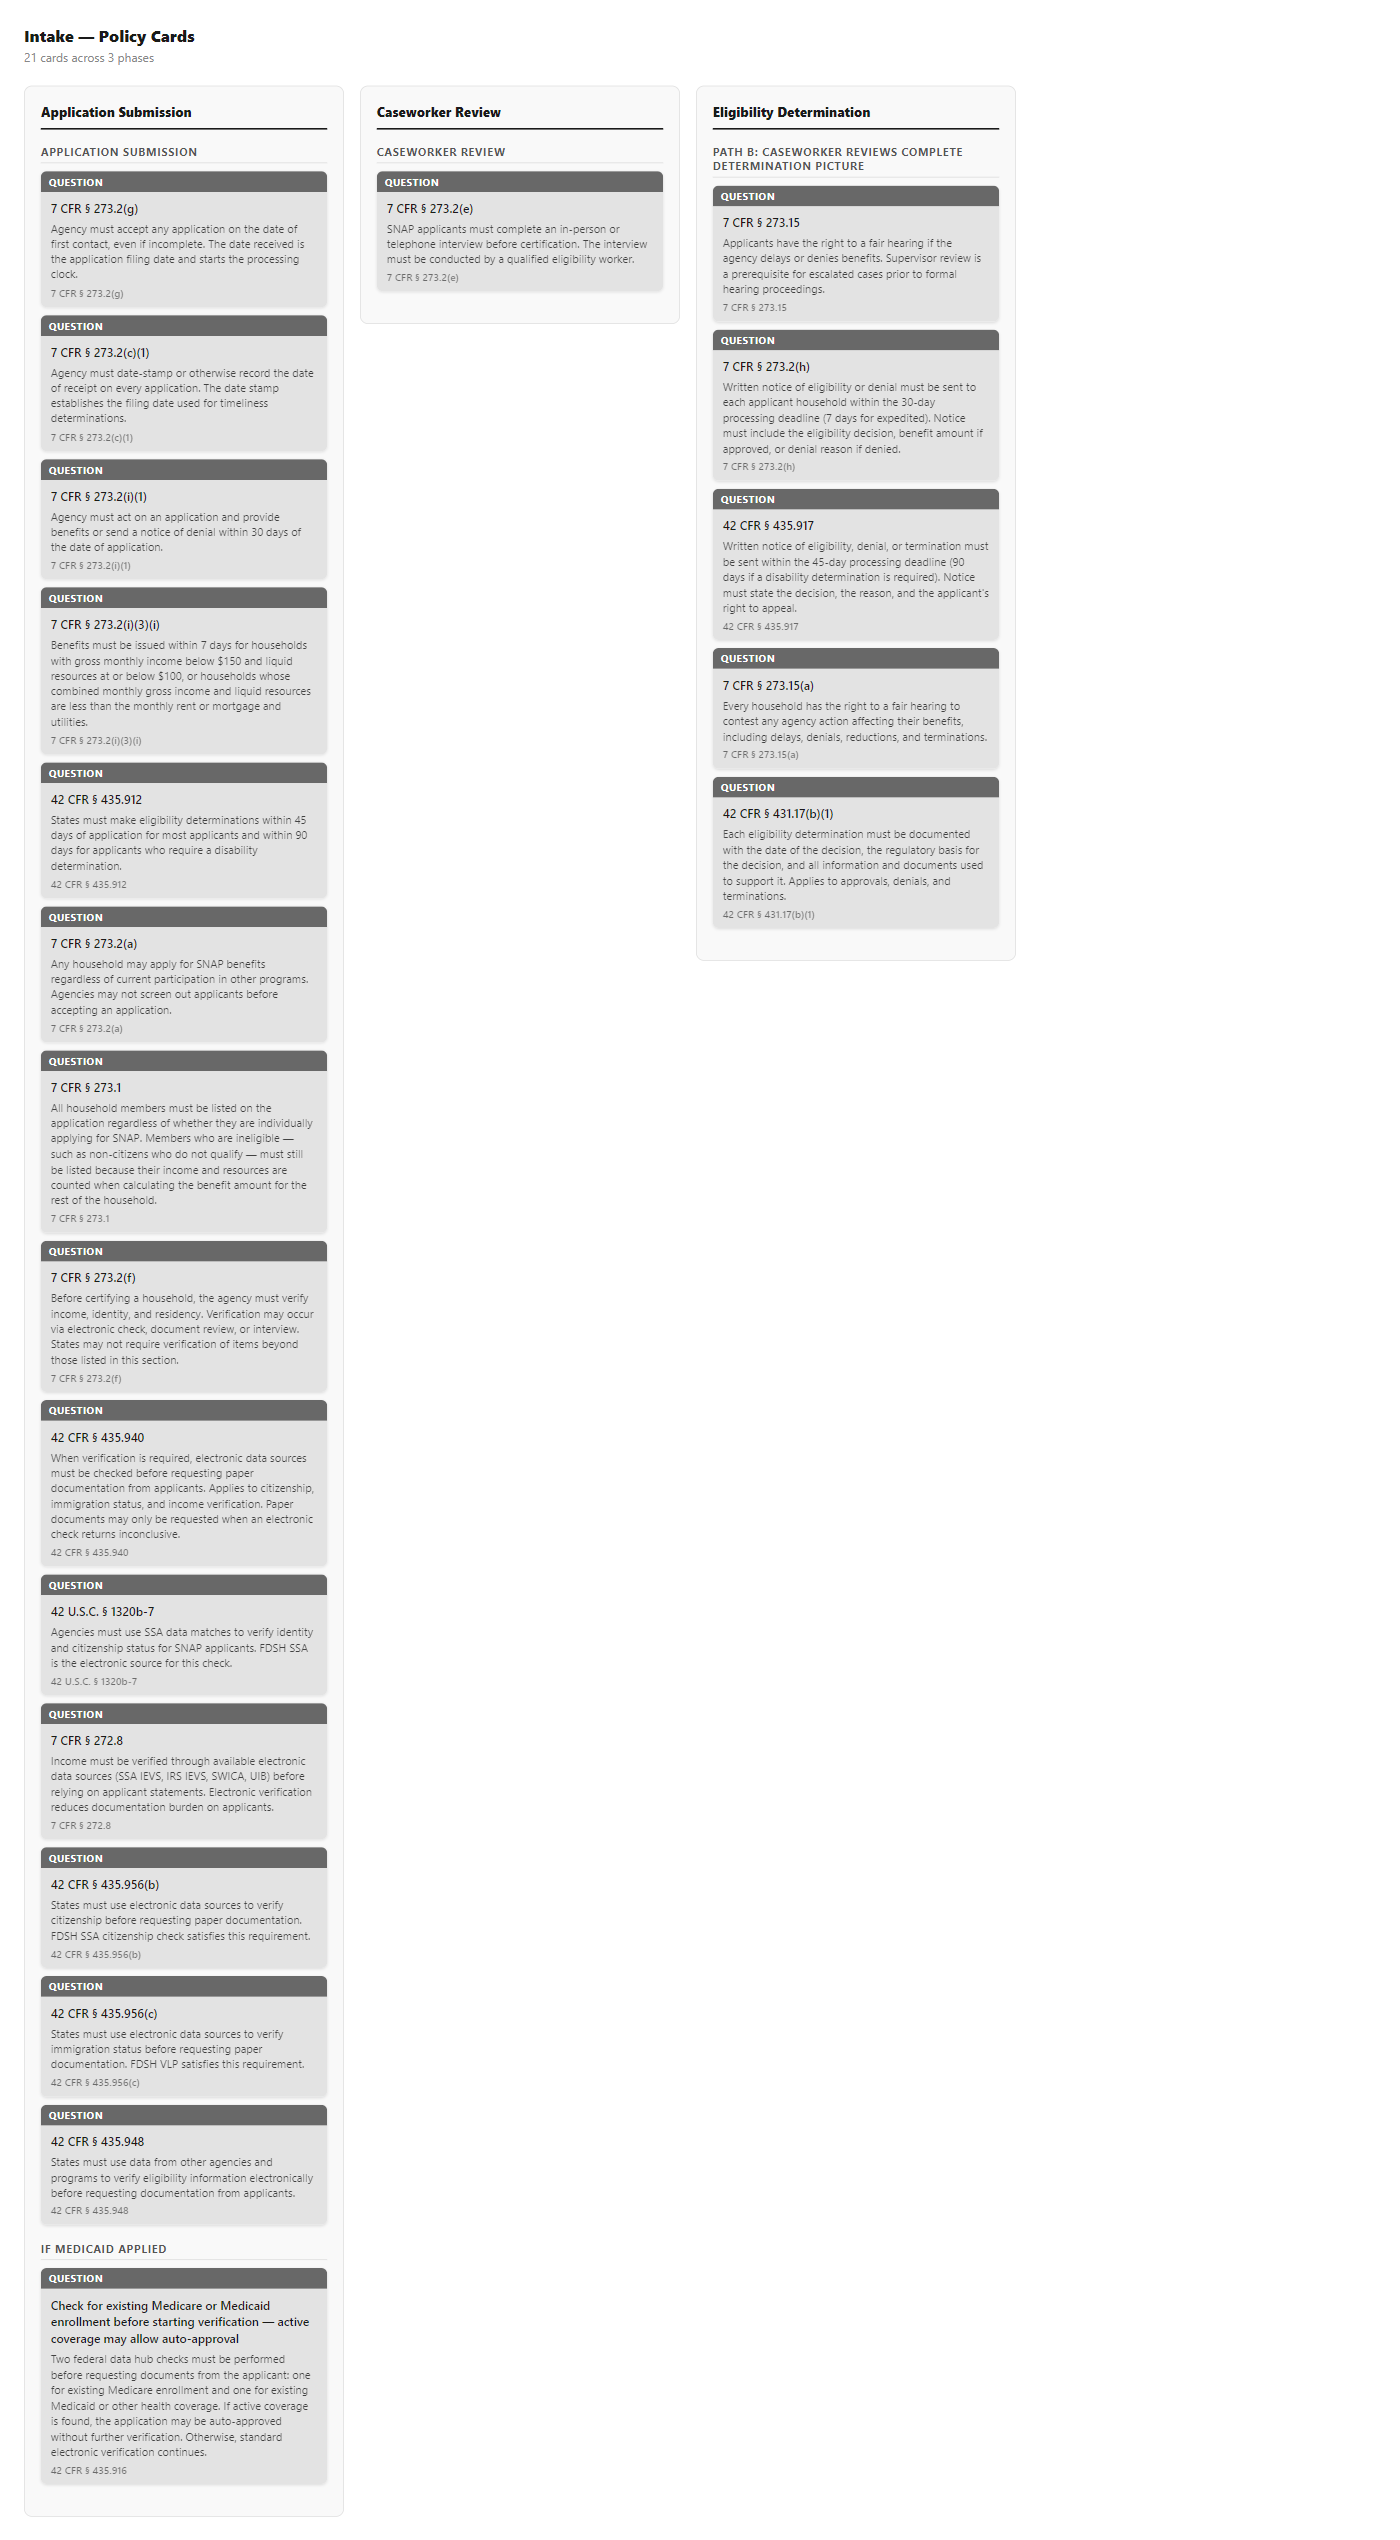
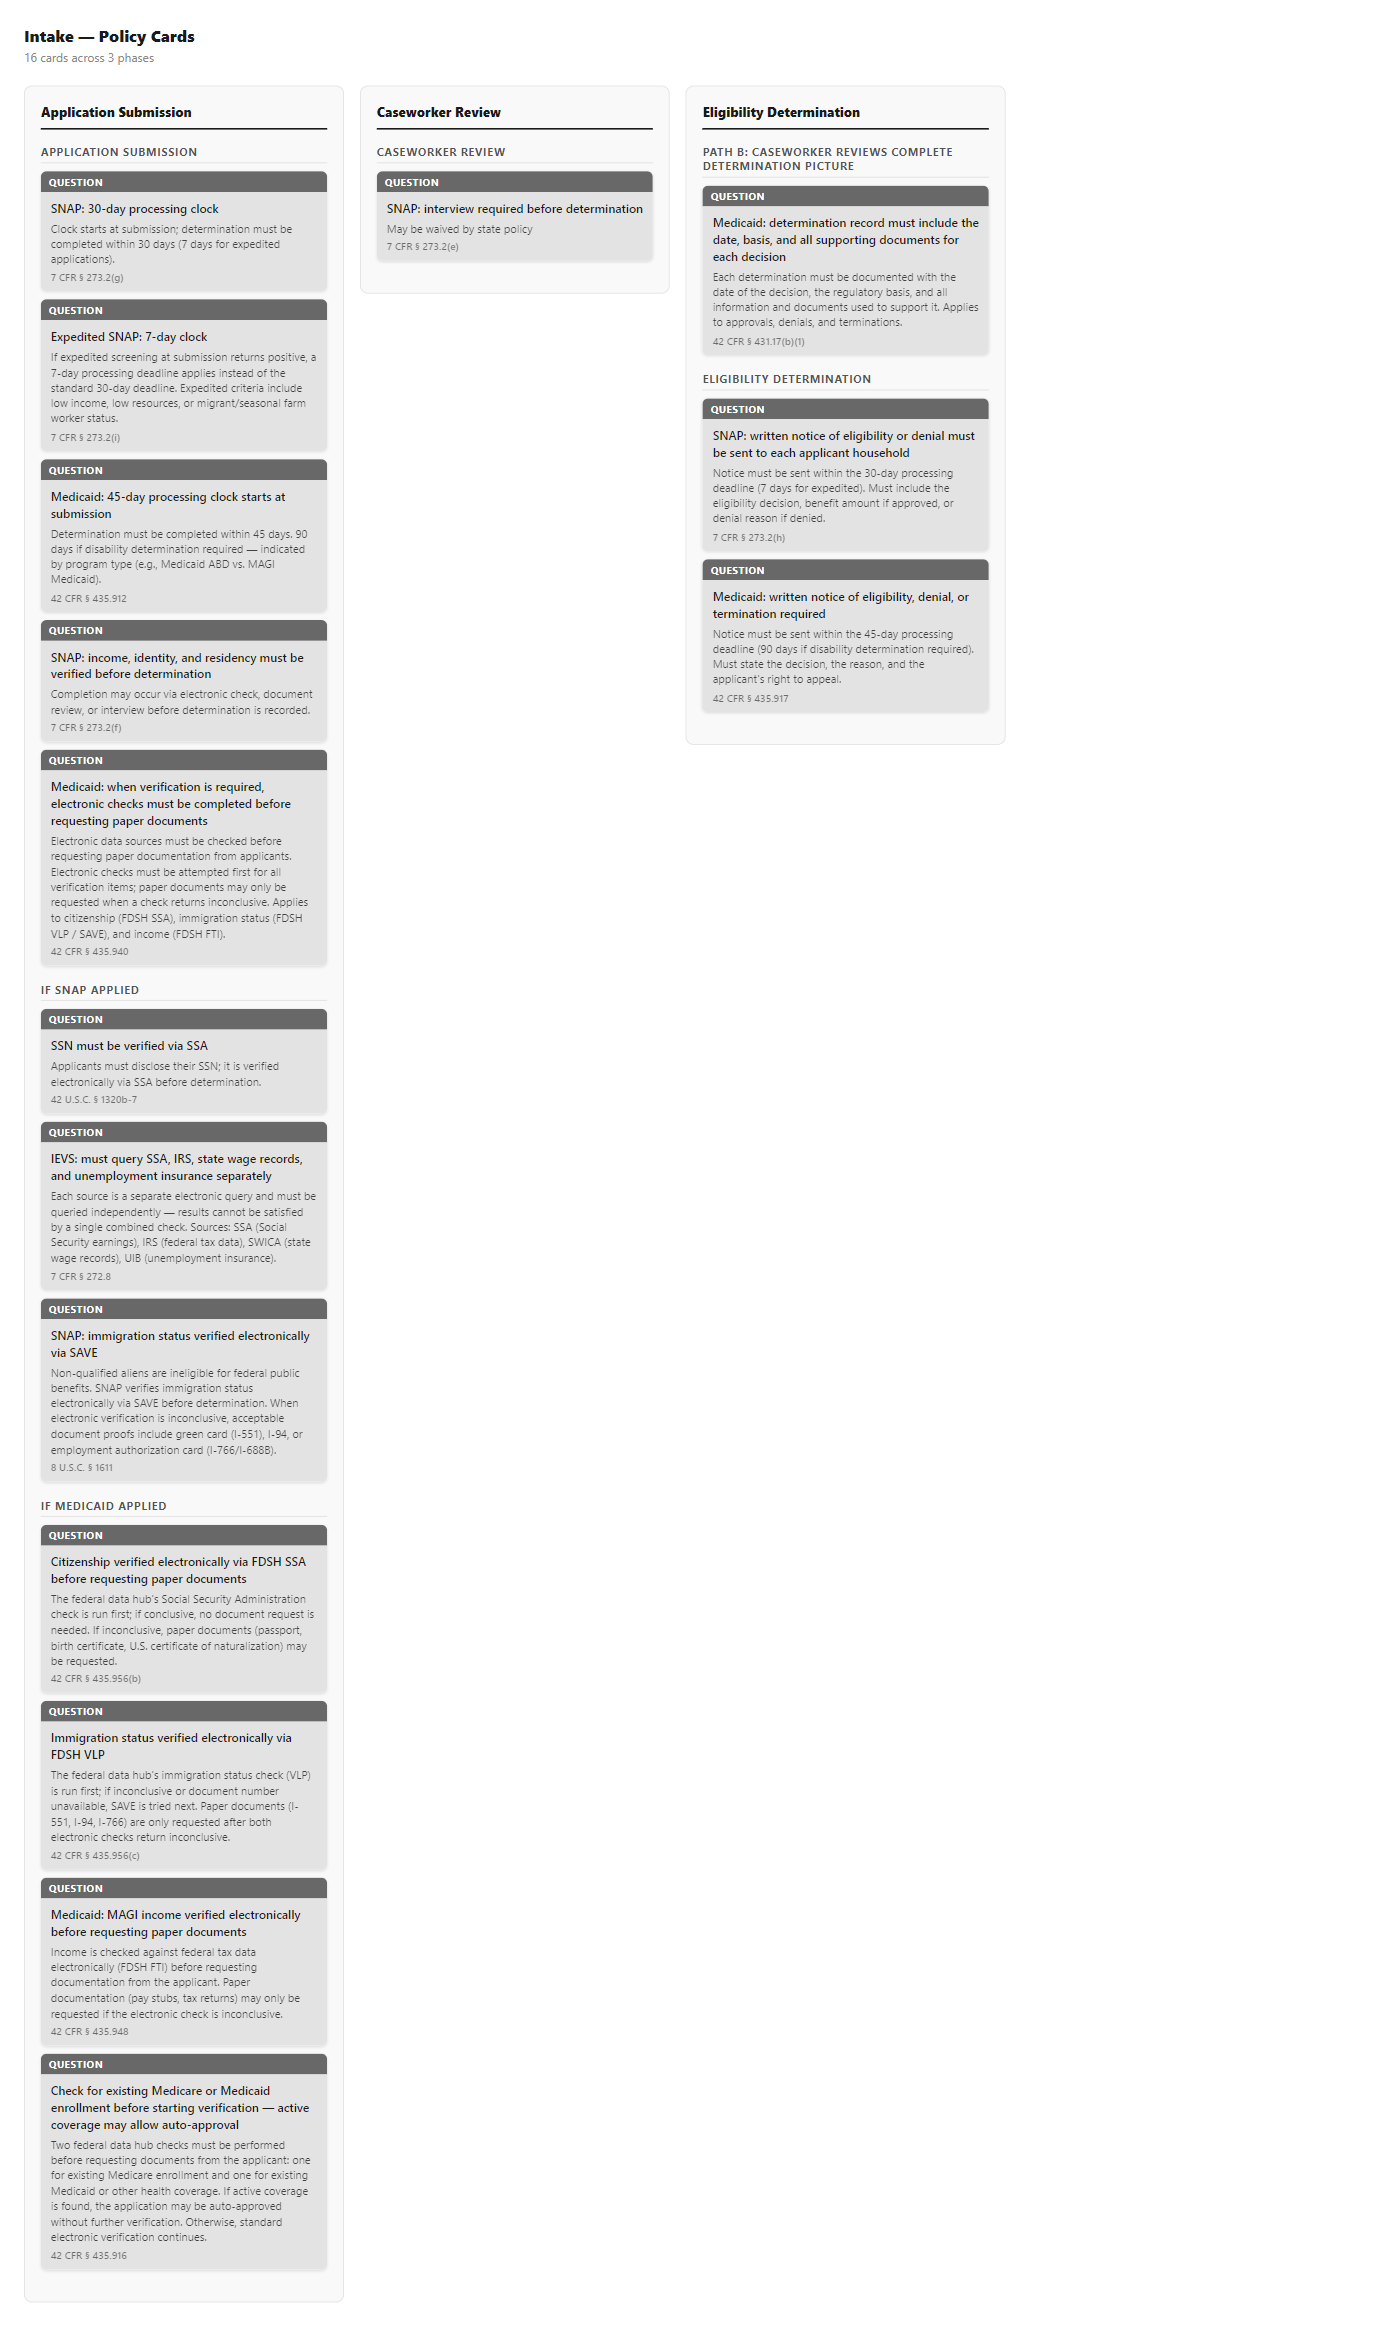
Regenerate explorer outputs

Changed region(s): [[0.0307, 0.0, 0.7371, 0.9905]]

diff --git a/packages/explorer/service-blueprints/output/intake-cards.html b/packages/explorer/service-blueprints/output/intake-cards.html
@@ -7,7 +7,7 @@
 <body>
   <div style="margin-bottom:20px;">
     <h1 style="font-size:16px;font-weight:800;color:#1a1a1a;">Intake — Policy Cards</h1>
-    <p style="font-size:12px;color:#888;margin-top:4px;">21 cards across 3 phases</p>
+    <p style="font-size:12px;color:#888;margin-top:4px;">16 cards across 3 phases</p>
   </div>
   <div style="display:flex;gap:16px;align-items:flex-start;">
     
@@ -20,119 +20,99 @@
     <div style="border-radius:6px;overflow:hidden;margin-bottom:8px;box-shadow:0 1px 3px rgba(0,0,0,0.12);">
       <div style="background:#686868;color:#FFFFFF;padding:4px 8px;font-size:10px;font-weight:700;letter-spacing:0.05em;">QUESTION</div>
       <div style="background:#E3E3E3;color:#1A1A1A;padding:8px 10px;">
-        <div style="font-size:12px;font-weight:600;line-height:1.4;margin-bottom:4px;">7 CFR § 273.2(g)</div>
-        <div style="font-size:11px;opacity:0.8;margin-bottom:4px;line-height:1.4;">Agency must accept any application on the date of first contact, even if incomplete. The date received is the application filing date and starts the processing clock.</div>
+        <div style="font-size:12px;font-weight:600;line-height:1.4;margin-bottom:4px;">SNAP: 30-day processing clock</div>
+        <div style="font-size:11px;opacity:0.8;margin-bottom:4px;line-height:1.4;">Clock starts at submission; determination must be completed within 30 days (7 days for expedited applications).</div>
         <div style="font-size:10px;font-weight:600;opacity:0.6;">7 CFR § 273.2(g)</div>
       </div>
     </div>
     <div style="border-radius:6px;overflow:hidden;margin-bottom:8px;box-shadow:0 1px 3px rgba(0,0,0,0.12);">
       <div style="background:#686868;color:#FFFFFF;padding:4px 8px;font-size:10px;font-weight:700;letter-spacing:0.05em;">QUESTION</div>
       <div style="background:#E3E3E3;color:#1A1A1A;padding:8px 10px;">
-        <div style="font-size:12px;font-weight:600;line-height:1.4;margin-bottom:4px;">7 CFR § 273.2(c)(1)</div>
-        <div style="font-size:11px;opacity:0.8;margin-bottom:4px;line-height:1.4;">Agency must date-stamp or otherwise record the date of receipt on every application. The date stamp establishes the filing date used for timeliness determinations.</div>
-        <div style="font-size:10px;font-weight:600;opacity:0.6;">7 CFR § 273.2(c)(1)</div>
+        <div style="font-size:12px;font-weight:600;line-height:1.4;margin-bottom:4px;">Expedited SNAP: 7-day clock</div>
+        <div style="font-size:11px;opacity:0.8;margin-bottom:4px;line-height:1.4;">If expedited screening at submission returns positive, a 7-day processing deadline applies instead of the standard 30-day deadline. Expedited criteria include low income, low resources, or migrant/seasonal farm worker status.</div>
+        <div style="font-size:10px;font-weight:600;opacity:0.6;">7 CFR § 273.2(i)</div>
       </div>
     </div>
     <div style="border-radius:6px;overflow:hidden;margin-bottom:8px;box-shadow:0 1px 3px rgba(0,0,0,0.12);">
       <div style="background:#686868;color:#FFFFFF;padding:4px 8px;font-size:10px;font-weight:700;letter-spacing:0.05em;">QUESTION</div>
       <div style="background:#E3E3E3;color:#1A1A1A;padding:8px 10px;">
-        <div style="font-size:12px;font-weight:600;line-height:1.4;margin-bottom:4px;">7 CFR § 273.2(i)(1)</div>
-        <div style="font-size:11px;opacity:0.8;margin-bottom:4px;line-height:1.4;">Agency must act on an application and provide benefits or send a notice of denial within 30 days of the date of application.</div>
-        <div style="font-size:10px;font-weight:600;opacity:0.6;">7 CFR § 273.2(i)(1)</div>
-      </div>
-    </div>
-    <div style="border-radius:6px;overflow:hidden;margin-bottom:8px;box-shadow:0 1px 3px rgba(0,0,0,0.12);">
-      <div style="background:#686868;color:#FFFFFF;padding:4px 8px;font-size:10px;font-weight:700;letter-spacing:0.05em;">QUESTION</div>
-      <div style="background:#E3E3E3;color:#1A1A1A;padding:8px 10px;">
-        <div style="font-size:12px;font-weight:600;line-height:1.4;margin-bottom:4px;">7 CFR § 273.2(i)(3)(i)</div>
-        <div style="font-size:11px;opacity:0.8;margin-bottom:4px;line-height:1.4;">Benefits must be issued within 7 days for households with gross monthly income below $150 and liquid resources at or below $100, or households whose combined monthly gross income and liquid resources are less than the monthly rent or mortgage and utilities.</div>
-        <div style="font-size:10px;font-weight:600;opacity:0.6;">7 CFR § 273.2(i)(3)(i)</div>
-      </div>
-    </div>
-    <div style="border-radius:6px;overflow:hidden;margin-bottom:8px;box-shadow:0 1px 3px rgba(0,0,0,0.12);">
-      <div style="background:#686868;color:#FFFFFF;padding:4px 8px;font-size:10px;font-weight:700;letter-spacing:0.05em;">QUESTION</div>
-      <div style="background:#E3E3E3;color:#1A1A1A;padding:8px 10px;">
-        <div style="font-size:12px;font-weight:600;line-height:1.4;margin-bottom:4px;">42 CFR § 435.912</div>
-        <div style="font-size:11px;opacity:0.8;margin-bottom:4px;line-height:1.4;">States must make eligibility determinations within 45 days of application for most applicants and within 90 days for applicants who require a disability determination.</div>
+        <div style="font-size:12px;font-weight:600;line-height:1.4;margin-bottom:4px;">Medicaid: 45-day processing clock starts at submission</div>
+        <div style="font-size:11px;opacity:0.8;margin-bottom:4px;line-height:1.4;">Determination must be completed within 45 days. 90 days if disability determination required — indicated by program type (e.g., Medicaid ABD vs. MAGI Medicaid).</div>
         <div style="font-size:10px;font-weight:600;opacity:0.6;">42 CFR § 435.912</div>
       </div>
     </div>
     <div style="border-radius:6px;overflow:hidden;margin-bottom:8px;box-shadow:0 1px 3px rgba(0,0,0,0.12);">
       <div style="background:#686868;color:#FFFFFF;padding:4px 8px;font-size:10px;font-weight:700;letter-spacing:0.05em;">QUESTION</div>
       <div style="background:#E3E3E3;color:#1A1A1A;padding:8px 10px;">
-        <div style="font-size:12px;font-weight:600;line-height:1.4;margin-bottom:4px;">7 CFR § 273.2(a)</div>
-        <div style="font-size:11px;opacity:0.8;margin-bottom:4px;line-height:1.4;">Any household may apply for SNAP benefits regardless of current participation in other programs. Agencies may not screen out applicants before accepting an application.</div>
-        <div style="font-size:10px;font-weight:600;opacity:0.6;">7 CFR § 273.2(a)</div>
-      </div>
-    </div>
-    <div style="border-radius:6px;overflow:hidden;margin-bottom:8px;box-shadow:0 1px 3px rgba(0,0,0,0.12);">
-      <div style="background:#686868;color:#FFFFFF;padding:4px 8px;font-size:10px;font-weight:700;letter-spacing:0.05em;">QUESTION</div>
-      <div style="background:#E3E3E3;color:#1A1A1A;padding:8px 10px;">
-        <div style="font-size:12px;font-weight:600;line-height:1.4;margin-bottom:4px;">7 CFR § 273.1</div>
-        <div style="font-size:11px;opacity:0.8;margin-bottom:4px;line-height:1.4;">All household members must be listed on the application regardless of whether they are individually applying for SNAP. Members who are ineligible — such as non-citizens who do not qualify — must still be listed because their income and resources are counted when calculating the benefit amount for the rest of the household.</div>
-        <div style="font-size:10px;font-weight:600;opacity:0.6;">7 CFR § 273.1</div>
-      </div>
-    </div>
-    <div style="border-radius:6px;overflow:hidden;margin-bottom:8px;box-shadow:0 1px 3px rgba(0,0,0,0.12);">
-      <div style="background:#686868;color:#FFFFFF;padding:4px 8px;font-size:10px;font-weight:700;letter-spacing:0.05em;">QUESTION</div>
-      <div style="background:#E3E3E3;color:#1A1A1A;padding:8px 10px;">
-        <div style="font-size:12px;font-weight:600;line-height:1.4;margin-bottom:4px;">7 CFR § 273.2(f)</div>
-        <div style="font-size:11px;opacity:0.8;margin-bottom:4px;line-height:1.4;">Before certifying a household, the agency must verify income, identity, and residency. Verification may occur via electronic check, document review, or interview. States may not require verification of items beyond those listed in this section.</div>
+        <div style="font-size:12px;font-weight:600;line-height:1.4;margin-bottom:4px;">SNAP: income, identity, and residency must be verified before determination</div>
+        <div style="font-size:11px;opacity:0.8;margin-bottom:4px;line-height:1.4;">Completion may occur via electronic check, document review, or interview before determination is recorded.</div>
         <div style="font-size:10px;font-weight:600;opacity:0.6;">7 CFR § 273.2(f)</div>
       </div>
     </div>
     <div style="border-radius:6px;overflow:hidden;margin-bottom:8px;box-shadow:0 1px 3px rgba(0,0,0,0.12);">
       <div style="background:#686868;color:#FFFFFF;padding:4px 8px;font-size:10px;font-weight:700;letter-spacing:0.05em;">QUESTION</div>
       <div style="background:#E3E3E3;color:#1A1A1A;padding:8px 10px;">
-        <div style="font-size:12px;font-weight:600;line-height:1.4;margin-bottom:4px;">42 CFR § 435.940</div>
-        <div style="font-size:11px;opacity:0.8;margin-bottom:4px;line-height:1.4;">When verification is required, electronic data sources must be checked before requesting paper documentation from applicants. Applies to citizenship, immigration status, and income verification. Paper documents may only be requested when an electronic check returns inconclusive.</div>
+        <div style="font-size:12px;font-weight:600;line-height:1.4;margin-bottom:4px;">Medicaid: when verification is required, electronic checks must be completed before requesting paper documents</div>
+        <div style="font-size:11px;opacity:0.8;margin-bottom:4px;line-height:1.4;">Electronic data sources must be checked before requesting paper documentation from applicants. Electronic checks must be attempted first for all verification items; paper documents may only be requested when a check returns inconclusive. Applies to citizenship (FDSH SSA), immigration status (FDSH VLP / SAVE), and income (FDSH FTI).</div>
         <div style="font-size:10px;font-weight:600;opacity:0.6;">42 CFR § 435.940</div>
       </div>
     </div>
+      </div>
+      <div style="margin-bottom:16px;">
+        <div style="font-size:11px;font-weight:700;color:#555;text-transform:uppercase;letter-spacing:0.06em;margin-bottom:8px;padding-bottom:4px;border-bottom:1px solid #ddd;">if SNAP applied</div>
+        
     <div style="border-radius:6px;overflow:hidden;margin-bottom:8px;box-shadow:0 1px 3px rgba(0,0,0,0.12);">
       <div style="background:#686868;color:#FFFFFF;padding:4px 8px;font-size:10px;font-weight:700;letter-spacing:0.05em;">QUESTION</div>
       <div style="background:#E3E3E3;color:#1A1A1A;padding:8px 10px;">
-        <div style="font-size:12px;font-weight:600;line-height:1.4;margin-bottom:4px;">42 U.S.C. § 1320b-7</div>
-        <div style="font-size:11px;opacity:0.8;margin-bottom:4px;line-height:1.4;">Agencies must use SSA data matches to verify identity and citizenship status for SNAP applicants. FDSH SSA is the electronic source for this check.</div>
+        <div style="font-size:12px;font-weight:600;line-height:1.4;margin-bottom:4px;">SSN must be verified via SSA</div>
+        <div style="font-size:11px;opacity:0.8;margin-bottom:4px;line-height:1.4;">Applicants must disclose their SSN; it is verified electronically via SSA before determination.</div>
         <div style="font-size:10px;font-weight:600;opacity:0.6;">42 U.S.C. § 1320b-7</div>
       </div>
     </div>
     <div style="border-radius:6px;overflow:hidden;margin-bottom:8px;box-shadow:0 1px 3px rgba(0,0,0,0.12);">
       <div style="background:#686868;color:#FFFFFF;padding:4px 8px;font-size:10px;font-weight:700;letter-spacing:0.05em;">QUESTION</div>
       <div style="background:#E3E3E3;color:#1A1A1A;padding:8px 10px;">
-        <div style="font-size:12px;font-weight:600;line-height:1.4;margin-bottom:4px;">7 CFR § 272.8</div>
-        <div style="font-size:11px;opacity:0.8;margin-bottom:4px;line-height:1.4;">Income must be verified through available electronic data sources (SSA IEVS, IRS IEVS, SWICA, UIB) before relying on applicant statements. Electronic verification reduces documentation burden on applicants.</div>
+        <div style="font-size:12px;font-weight:600;line-height:1.4;margin-bottom:4px;">IEVS: must query SSA, IRS, state wage records, and unemployment insurance separately</div>
+        <div style="font-size:11px;opacity:0.8;margin-bottom:4px;line-height:1.4;">Each source is a separate electronic query and must be queried independently — results cannot be satisfied by a single combined check. Sources: SSA (Social Security earnings), IRS (federal tax data), SWICA (state wage records), UIB (unemployment insurance).</div>
         <div style="font-size:10px;font-weight:600;opacity:0.6;">7 CFR § 272.8</div>
       </div>
     </div>
     <div style="border-radius:6px;overflow:hidden;margin-bottom:8px;box-shadow:0 1px 3px rgba(0,0,0,0.12);">
       <div style="background:#686868;color:#FFFFFF;padding:4px 8px;font-size:10px;font-weight:700;letter-spacing:0.05em;">QUESTION</div>
       <div style="background:#E3E3E3;color:#1A1A1A;padding:8px 10px;">
-        <div style="font-size:12px;font-weight:600;line-height:1.4;margin-bottom:4px;">42 CFR § 435.956(b)</div>
-        <div style="font-size:11px;opacity:0.8;margin-bottom:4px;line-height:1.4;">States must use electronic data sources to verify citizenship before requesting paper documentation. FDSH SSA citizenship check satisfies this requirement.</div>
-        <div style="font-size:10px;font-weight:600;opacity:0.6;">42 CFR § 435.956(b)</div>
-      </div>
-    </div>
-    <div style="border-radius:6px;overflow:hidden;margin-bottom:8px;box-shadow:0 1px 3px rgba(0,0,0,0.12);">
-      <div style="background:#686868;color:#FFFFFF;padding:4px 8px;font-size:10px;font-weight:700;letter-spacing:0.05em;">QUESTION</div>
-      <div style="background:#E3E3E3;color:#1A1A1A;padding:8px 10px;">
-        <div style="font-size:12px;font-weight:600;line-height:1.4;margin-bottom:4px;">42 CFR § 435.956(c)</div>
-        <div style="font-size:11px;opacity:0.8;margin-bottom:4px;line-height:1.4;">States must use electronic data sources to verify immigration status before requesting paper documentation. FDSH VLP satisfies this requirement.</div>
-        <div style="font-size:10px;font-weight:600;opacity:0.6;">42 CFR § 435.956(c)</div>
-      </div>
-    </div>
-    <div style="border-radius:6px;overflow:hidden;margin-bottom:8px;box-shadow:0 1px 3px rgba(0,0,0,0.12);">
-      <div style="background:#686868;color:#FFFFFF;padding:4px 8px;font-size:10px;font-weight:700;letter-spacing:0.05em;">QUESTION</div>
-      <div style="background:#E3E3E3;color:#1A1A1A;padding:8px 10px;">
-        <div style="font-size:12px;font-weight:600;line-height:1.4;margin-bottom:4px;">42 CFR § 435.948</div>
-        <div style="font-size:11px;opacity:0.8;margin-bottom:4px;line-height:1.4;">States must use data from other agencies and programs to verify eligibility information electronically before requesting documentation from applicants.</div>
-        <div style="font-size:10px;font-weight:600;opacity:0.6;">42 CFR § 435.948</div>
+        <div style="font-size:12px;font-weight:600;line-height:1.4;margin-bottom:4px;">SNAP: immigration status verified electronically via SAVE</div>
+        <div style="font-size:11px;opacity:0.8;margin-bottom:4px;line-height:1.4;">Non-qualified aliens are ineligible for federal public benefits. SNAP verifies immigration status electronically via SAVE before determination. When electronic verification is inconclusive, acceptable document proofs include green card (I-551), I-94, or employment authorization card (I-766/I-688B).</div>
+        <div style="font-size:10px;font-weight:600;opacity:0.6;">8 U.S.C. § 1611</div>
       </div>
     </div>
       </div>
       <div style="margin-bottom:16px;">
         <div style="font-size:11px;font-weight:700;color:#555;text-transform:uppercase;letter-spacing:0.06em;margin-bottom:8px;padding-bottom:4px;border-bottom:1px solid #ddd;">if Medicaid applied</div>
         
+    <div style="border-radius:6px;overflow:hidden;margin-bottom:8px;box-shadow:0 1px 3px rgba(0,0,0,0.12);">
+      <div style="background:#686868;color:#FFFFFF;padding:4px 8px;font-size:10px;font-weight:700;letter-spacing:0.05em;">QUESTION</div>
+      <div style="background:#E3E3E3;color:#1A1A1A;padding:8px 10px;">
+        <div style="font-size:12px;font-weight:600;line-height:1.4;margin-bottom:4px;">Citizenship verified electronically via FDSH SSA before requesting paper documents</div>
+        <div style="font-size:11px;opacity:0.8;margin-bottom:4px;line-height:1.4;">The federal data hub's Social Security Administration check is run first; if conclusive, no document request is needed. If inconclusive, paper documents (passport, birth certificate, U.S. certificate of naturalization) may be requested.</div>
+        <div style="font-size:10px;font-weight:600;opacity:0.6;">42 CFR § 435.956(b)</div>
+      </div>
+    </div>
+    <div style="border-radius:6px;overflow:hidden;margin-bottom:8px;box-shadow:0 1px 3px rgba(0,0,0,0.12);">
+      <div style="background:#686868;color:#FFFFFF;padding:4px 8px;font-size:10px;font-weight:700;letter-spacing:0.05em;">QUESTION</div>
+      <div style="background:#E3E3E3;color:#1A1A1A;padding:8px 10px;">
+        <div style="font-size:12px;font-weight:600;line-height:1.4;margin-bottom:4px;">Immigration status verified electronically via FDSH VLP</div>
+        <div style="font-size:11px;opacity:0.8;margin-bottom:4px;line-height:1.4;">The federal data hub's immigration status check (VLP) is run first; if inconclusive or document number unavailable, SAVE is tried next. Paper documents (I-551, I-94, I-766) are only requested after both electronic checks return inconclusive.</div>
+        <div style="font-size:10px;font-weight:600;opacity:0.6;">42 CFR § 435.956(c)</div>
+      </div>
+    </div>
+    <div style="border-radius:6px;overflow:hidden;margin-bottom:8px;box-shadow:0 1px 3px rgba(0,0,0,0.12);">
+      <div style="background:#686868;color:#FFFFFF;padding:4px 8px;font-size:10px;font-weight:700;letter-spacing:0.05em;">QUESTION</div>
+      <div style="background:#E3E3E3;color:#1A1A1A;padding:8px 10px;">
+        <div style="font-size:12px;font-weight:600;line-height:1.4;margin-bottom:4px;">Medicaid: MAGI income verified electronically before requesting paper documents</div>
+        <div style="font-size:11px;opacity:0.8;margin-bottom:4px;line-height:1.4;">Income is checked against federal tax data electronically (FDSH FTI) before requesting documentation from the applicant. Paper documentation (pay stubs, tax returns) may only be requested if the electronic check is inconclusive.</div>
+        <div style="font-size:10px;font-weight:600;opacity:0.6;">42 CFR § 435.948</div>
+      </div>
+    </div>
     <div style="border-radius:6px;overflow:hidden;margin-bottom:8px;box-shadow:0 1px 3px rgba(0,0,0,0.12);">
       <div style="background:#686868;color:#FFFFFF;padding:4px 8px;font-size:10px;font-weight:700;letter-spacing:0.05em;">QUESTION</div>
       <div style="background:#E3E3E3;color:#1A1A1A;padding:8px 10px;">
@@ -152,8 +132,8 @@
     <div style="border-radius:6px;overflow:hidden;margin-bottom:8px;box-shadow:0 1px 3px rgba(0,0,0,0.12);">
       <div style="background:#686868;color:#FFFFFF;padding:4px 8px;font-size:10px;font-weight:700;letter-spacing:0.05em;">QUESTION</div>
       <div style="background:#E3E3E3;color:#1A1A1A;padding:8px 10px;">
-        <div style="font-size:12px;font-weight:600;line-height:1.4;margin-bottom:4px;">7 CFR § 273.2(e)</div>
-        <div style="font-size:11px;opacity:0.8;margin-bottom:4px;line-height:1.4;">SNAP applicants must complete an in-person or telephone interview before certification. The interview must be conducted by a qualified eligibility worker.</div>
+        <div style="font-size:12px;font-weight:600;line-height:1.4;margin-bottom:4px;">SNAP: interview required before determination</div>
+        <div style="font-size:11px;opacity:0.8;margin-bottom:4px;line-height:1.4;">May be waived by state policy</div>
         <div style="font-size:10px;font-weight:600;opacity:0.6;">7 CFR § 273.2(e)</div>
       </div>
     </div>
@@ -168,41 +148,29 @@
     <div style="border-radius:6px;overflow:hidden;margin-bottom:8px;box-shadow:0 1px 3px rgba(0,0,0,0.12);">
       <div style="background:#686868;color:#FFFFFF;padding:4px 8px;font-size:10px;font-weight:700;letter-spacing:0.05em;">QUESTION</div>
       <div style="background:#E3E3E3;color:#1A1A1A;padding:8px 10px;">
-        <div style="font-size:12px;font-weight:600;line-height:1.4;margin-bottom:4px;">7 CFR § 273.15</div>
-        <div style="font-size:11px;opacity:0.8;margin-bottom:4px;line-height:1.4;">Applicants have the right to a fair hearing if the agency delays or denies benefits. Supervisor review is a prerequisite for escalated cases prior to formal hearing proceedings.</div>
-        <div style="font-size:10px;font-weight:600;opacity:0.6;">7 CFR § 273.15</div>
+        <div style="font-size:12px;font-weight:600;line-height:1.4;margin-bottom:4px;">Medicaid: determination record must include the date, basis, and all supporting documents for each decision</div>
+        <div style="font-size:11px;opacity:0.8;margin-bottom:4px;line-height:1.4;">Each determination must be documented with the date of the decision, the regulatory basis, and all information and documents used to support it. Applies to approvals, denials, and terminations.</div>
+        <div style="font-size:10px;font-weight:600;opacity:0.6;">42 CFR § 431.17(b)(1)</div>
       </div>
     </div>
+      </div>
+      <div style="margin-bottom:16px;">
+        <div style="font-size:11px;font-weight:700;color:#555;text-transform:uppercase;letter-spacing:0.06em;margin-bottom:8px;padding-bottom:4px;border-bottom:1px solid #ddd;">Eligibility Determination</div>
+        
     <div style="border-radius:6px;overflow:hidden;margin-bottom:8px;box-shadow:0 1px 3px rgba(0,0,0,0.12);">
       <div style="background:#686868;color:#FFFFFF;padding:4px 8px;font-size:10px;font-weight:700;letter-spacing:0.05em;">QUESTION</div>
       <div style="background:#E3E3E3;color:#1A1A1A;padding:8px 10px;">
-        <div style="font-size:12px;font-weight:600;line-height:1.4;margin-bottom:4px;">7 CFR § 273.2(h)</div>
-        <div style="font-size:11px;opacity:0.8;margin-bottom:4px;line-height:1.4;">Written notice of eligibility or denial must be sent to each applicant household within the 30-day processing deadline (7 days for expedited). Notice must include the eligibility decision, benefit amount if approved, or denial reason if denied.</div>
+        <div style="font-size:12px;font-weight:600;line-height:1.4;margin-bottom:4px;">SNAP: written notice of eligibility or denial must be sent to each applicant household</div>
+        <div style="font-size:11px;opacity:0.8;margin-bottom:4px;line-height:1.4;">Notice must be sent within the 30-day processing deadline (7 days for expedited). Must include the eligibility decision, benefit amount if approved, or denial reason if denied.</div>
         <div style="font-size:10px;font-weight:600;opacity:0.6;">7 CFR § 273.2(h)</div>
       </div>
     </div>
     <div style="border-radius:6px;overflow:hidden;margin-bottom:8px;box-shadow:0 1px 3px rgba(0,0,0,0.12);">
       <div style="background:#686868;color:#FFFFFF;padding:4px 8px;font-size:10px;font-weight:700;letter-spacing:0.05em;">QUESTION</div>
       <div style="background:#E3E3E3;color:#1A1A1A;padding:8px 10px;">
-        <div style="font-size:12px;font-weight:600;line-height:1.4;margin-bottom:4px;">42 CFR § 435.917</div>
-        <div style="font-size:11px;opacity:0.8;margin-bottom:4px;line-height:1.4;">Written notice of eligibility, denial, or termination must be sent within the 45-day processing deadline (90 days if a disability determination is required). Notice must state the decision, the reason, and the applicant's right to appeal.</div>
+        <div style="font-size:12px;font-weight:600;line-height:1.4;margin-bottom:4px;">Medicaid: written notice of eligibility, denial, or termination required</div>
+        <div style="font-size:11px;opacity:0.8;margin-bottom:4px;line-height:1.4;">Notice must be sent within the 45-day processing deadline (90 days if disability determination required). Must state the decision, the reason, and the applicant's right to appeal.</div>
         <div style="font-size:10px;font-weight:600;opacity:0.6;">42 CFR § 435.917</div>
-      </div>
-    </div>
-    <div style="border-radius:6px;overflow:hidden;margin-bottom:8px;box-shadow:0 1px 3px rgba(0,0,0,0.12);">
-      <div style="background:#686868;color:#FFFFFF;padding:4px 8px;font-size:10px;font-weight:700;letter-spacing:0.05em;">QUESTION</div>
-      <div style="background:#E3E3E3;color:#1A1A1A;padding:8px 10px;">
-        <div style="font-size:12px;font-weight:600;line-height:1.4;margin-bottom:4px;">7 CFR § 273.15(a)</div>
-        <div style="font-size:11px;opacity:0.8;margin-bottom:4px;line-height:1.4;">Every household has the right to a fair hearing to contest any agency action affecting their benefits, including delays, denials, reductions, and terminations.</div>
-        <div style="font-size:10px;font-weight:600;opacity:0.6;">7 CFR § 273.15(a)</div>
-      </div>
-    </div>
-    <div style="border-radius:6px;overflow:hidden;margin-bottom:8px;box-shadow:0 1px 3px rgba(0,0,0,0.12);">
-      <div style="background:#686868;color:#FFFFFF;padding:4px 8px;font-size:10px;font-weight:700;letter-spacing:0.05em;">QUESTION</div>
-      <div style="background:#E3E3E3;color:#1A1A1A;padding:8px 10px;">
-        <div style="font-size:12px;font-weight:600;line-height:1.4;margin-bottom:4px;">42 CFR § 431.17(b)(1)</div>
-        <div style="font-size:11px;opacity:0.8;margin-bottom:4px;line-height:1.4;">Each eligibility determination must be documented with the date of the decision, the regulatory basis for the decision, and all information and documents used to support it. Applies to approvals, denials, and terminations.</div>
-        <div style="font-size:10px;font-weight:600;opacity:0.6;">42 CFR § 431.17(b)(1)</div>
       </div>
     </div>
       </div>

diff --git a/packages/explorer/data-explorer/output/data-explorer.html b/packages/explorer/data-explorer/output/data-explorer.html
@@ -1815,7 +1815,7 @@ UUIDs upon submission.
           <div class="stat-card"><span class="stat-num">10</span><span class="stat-label">Attributes</span></div>
           <div class="stat-card"><span class="stat-num">0</span><span class="stat-label">Relationships</span></div>
           <div class="stat-card"><span class="stat-num">12</span><span class="stat-label">Actions</span></div>
-          <div class="stat-card"><span class="stat-num">18</span><span class="stat-label">Events</span></div>
+          <div class="stat-card"><span class="stat-num">20</span><span class="stat-label">Events</span></div>
         </div>
         <h5 class="overview-section-heading">Lifecycle</h5>
         <div class="lifecycle-states">
@@ -2103,8 +2103,16 @@ UUIDs upon submission.
       <td class="action-notes">Create one Decision per household member per applied-for program when an eligibility Determination is created for this application</td>
     </tr>
     <tr>
+      <td class="action-name"><code>intake.application_member.created</code></td>
+      <td class="action-notes">Create member verifications when a member is added to a submitted application; mirrors the member verifications created by createProgramVerifications at submission time</td>
+    </tr>
+    <tr>
       <td class="action-name"><code>intake.application.submitted</code></td>
       <td class="action-notes">Initiate electronic verification requests for each applicable program when an application is submitted</td>
+    </tr>
+    <tr>
+      <td class="action-name"><code>intake.member_income.created</code></td>
+      <td class="action-notes">Create an income verification when an income record is added to a submitted application; mirrors the income verification created by createProgramVerifications at submission time</td>
     </tr>
     <tr>
       <td class="action-name"><code>scheduling.appointment.scheduled</code></td>